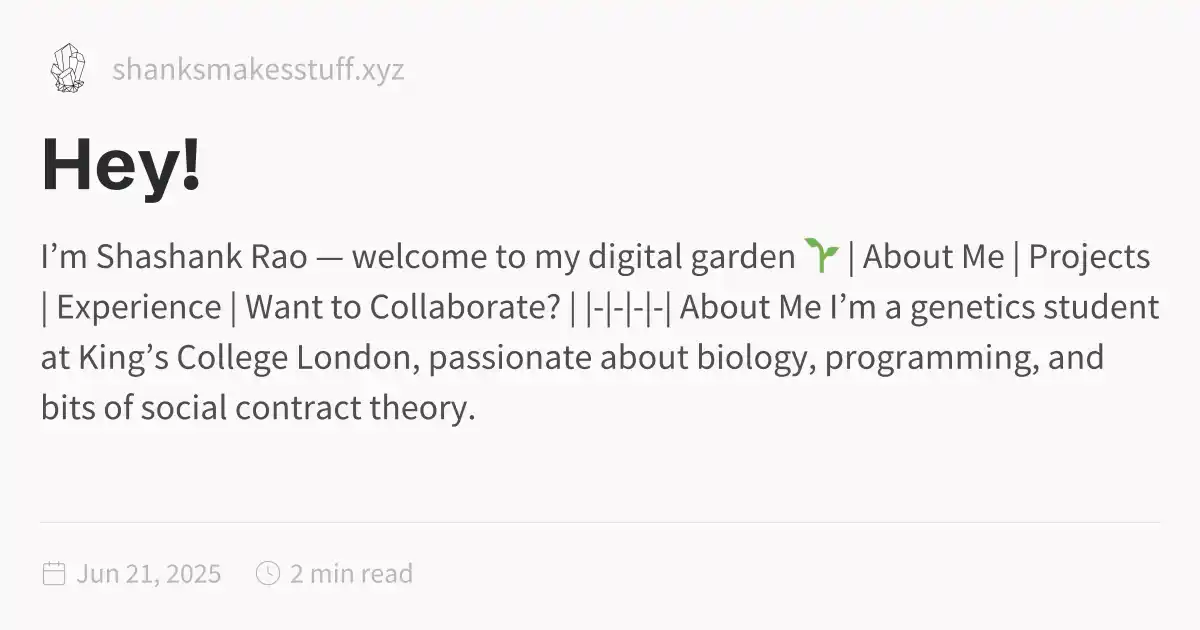
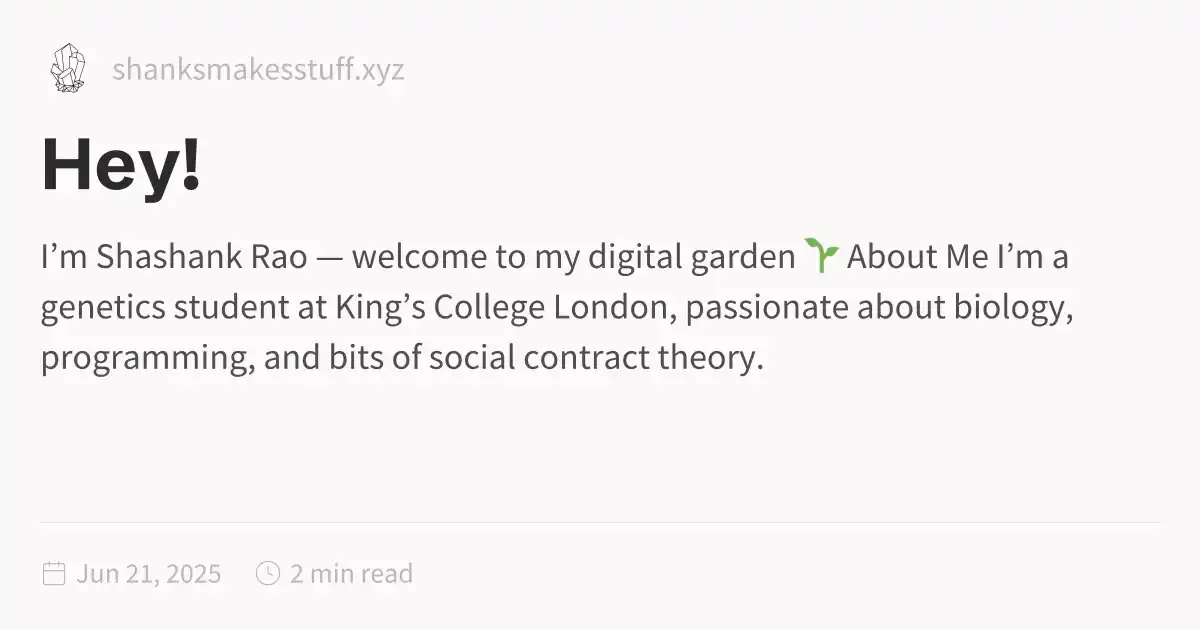
2025-06-21_1156

Changed region(s): [[0.0308, 0.3921, 0.9558, 0.5127], [0.0308, 0.5429, 0.925, 0.6032], [0.0308, 0.6333, 0.4008, 0.6635]]

diff --git a/Hey!.html b/Hey!.html
@@ -1,5 +1,5 @@
 <!DOCTYPE html>
-<html lang="en"><head><title>Hey!</title><meta charset="utf-8"/><link rel="preconnect" href="https://fonts.googleapis.com"/><link rel="preconnect" href="https://fonts.gstatic.com"/><link rel="stylesheet" href="https://fonts.googleapis.com/css2?family=Schibsted Grotesk:wght@400;700&amp;family=Source Sans Pro:ital,wght@0,400;0,600;1,400;1,600&amp;family=IBM Plex Mono:wght@400;600&amp;display=swap"/><link rel="preconnect" href="https://cdnjs.cloudflare.com" crossorigin="anonymous"/><meta name="viewport" content="width=device-width, initial-scale=1.0"/><meta name="og:site_name" content="ShanksMakesStuff"/><meta property="og:title" content="Hey!"/><meta property="og:type" content="website"/><meta name="twitter:card" content="summary_large_image"/><meta name="twitter:title" content="Hey!"/><meta name="twitter:description" content="I’m Shashank Rao — welcome to my digital garden 🌱 | About Me | Projects | Experience | Want to Collaborate? | |-|-|-|-| About Me I’m a genetics student at King’s College London, passionate about biology, programming, and bits of social contract theory."/><meta property="og:description" content="I’m Shashank Rao — welcome to my digital garden 🌱 | About Me | Projects | Experience | Want to Collaborate? | |-|-|-|-| About Me I’m a genetics student at King’s College London, passionate about biology, programming, and bits of social contract theory."/><meta property="og:image:alt" content="I’m Shashank Rao — welcome to my digital garden 🌱 | About Me | Projects | Experience | Want to Collaborate? | |-|-|-|-| About Me I’m a genetics student at King’s College London, passionate about biology, programming, and bits of social contract theory."/><meta property="twitter:domain" content="shanksmakesstuff.xyz"/><meta property="og:url" content="https://shanksmakesstuff.xyz/Hey!"/><meta property="twitter:url" content="https://shanksmakesstuff.xyz/Hey!"/><link rel="icon" href="./static/icon.png"/><meta name="description" content="I’m Shashank Rao — welcome to my digital garden 🌱 | About Me | Projects | Experience | Want to Collaborate? | |-|-|-|-| About Me I’m a genetics student at King’s College London, passionate about biology, programming, and bits of social contract theory."/><meta name="generator" content="Quartz"/><link href="./index.css" rel="stylesheet" type="text/css" spa-preserve/><style>.expand-button {
+<html lang="en"><head><title>Hey!</title><meta charset="utf-8"/><link rel="preconnect" href="https://fonts.googleapis.com"/><link rel="preconnect" href="https://fonts.gstatic.com"/><link rel="stylesheet" href="https://fonts.googleapis.com/css2?family=Schibsted Grotesk:wght@400;700&amp;family=Source Sans Pro:ital,wght@0,400;0,600;1,400;1,600&amp;family=IBM Plex Mono:wght@400;600&amp;display=swap"/><link rel="preconnect" href="https://cdnjs.cloudflare.com" crossorigin="anonymous"/><meta name="viewport" content="width=device-width, initial-scale=1.0"/><meta name="og:site_name" content="ShanksMakesStuff"/><meta property="og:title" content="Hey!"/><meta property="og:type" content="website"/><meta name="twitter:card" content="summary_large_image"/><meta name="twitter:title" content="Hey!"/><meta name="twitter:description" content="I’m Shashank Rao — welcome to my digital garden 🌱 About Me I’m a genetics student at King’s College London, passionate about biology, programming, and bits of social contract theory."/><meta property="og:description" content="I’m Shashank Rao — welcome to my digital garden 🌱 About Me I’m a genetics student at King’s College London, passionate about biology, programming, and bits of social contract theory."/><meta property="og:image:alt" content="I’m Shashank Rao — welcome to my digital garden 🌱 About Me I’m a genetics student at King’s College London, passionate about biology, programming, and bits of social contract theory."/><meta property="twitter:domain" content="shanksmakesstuff.xyz"/><meta property="og:url" content="https://shanksmakesstuff.xyz/Hey!"/><meta property="twitter:url" content="https://shanksmakesstuff.xyz/Hey!"/><link rel="icon" href="./static/icon.png"/><meta name="description" content="I’m Shashank Rao — welcome to my digital garden 🌱 About Me I’m a genetics student at King’s College London, passionate about biology, programming, and bits of social contract theory."/><meta name="generator" content="Quartz"/><link href="./index.css" rel="stylesheet" type="text/css" spa-preserve/><style>.expand-button {
   position: absolute;
   display: flex;
   float: right;
@@ -116,14 +116,33 @@ pre:hover > .expand-button {
   padding: 0 12px;
   font-size: 14px;
 }
[1 lines of base64/hex data omitted]
-<hr/>
-<p>| <a href="#about-me" class="internal alias">About Me</a> | <a href="#projects" class="internal alias">Projects</a> | <a href="#experience" class="internal alias">Experience</a> | <a href="#want-to-collaborate" class="internal alias">Want to Collaborate?</a> |
-|-|-|-|-|</p>
[1 lines of base64/hex data omitted]
 <h2 id="about-me">About Me<a role="anchor" aria-hidden="true" tabindex="-1" data-no-popover="true" href="#about-me" class="internal"><svg width="18" height="18" viewBox="0 0 24 24" fill="none" stroke="currentColor" stroke-width="2" stroke-linecap="round" stroke-linejoin="round"><path d="M10 13a5 5 0 0 0 7.54.54l3-3a5 5 0 0 0-7.07-7.07l-1.72 1.71"></path><path d="M14 11a5 5 0 0 0-7.54-.54l-3 3a5 5 0 0 0 7.07 7.07l1.71-1.71"></path></svg></a></h2>
 <p>I’m a genetics student at <a href="https://www.kcl.ac.uk/" class="external">King’s College London<svg aria-hidden="true" class="external-icon" style="max-width:0.8em;max-height:0.8em;" viewBox="0 0 512 512"><path d="M320 0H288V64h32 82.7L201.4 265.4 178.7 288 224 333.3l22.6-22.6L448 109.3V192v32h64V192 32 0H480 320zM32 32H0V64 480v32H32 456h32V480 352 320H424v32 96H64V96h96 32V32H160 32z"></path></svg></a>, passionate about biology, programming, and bits of social contract theory.<br/>
 I love combining disciplines, whether it’s using code to explore genetics or using philosophy to understand society.</p>
 <p>Outside the lab and code editor, I play the guitar, write fantasy stories, and occasionally attempt to draw things that don’t look awful. I hope you enjoy exploring my projects, thoughts, and half-grown ideas!</p>
+<h2 id="experience">Experience<a role="anchor" aria-hidden="true" tabindex="-1" data-no-popover="true" href="#experience" class="internal"><svg width="18" height="18" viewBox="0 0 24 24" fill="none" stroke="currentColor" stroke-width="2" stroke-linecap="round" stroke-linejoin="round"><path d="M10 13a5 5 0 0 0 7.54.54l3-3a5 5 0 0 0-7.07-7.07l-1.72 1.71"></path><path d="M14 11a5 5 0 0 0-7.54-.54l-3 3a5 5 0 0 0 7.07 7.07l1.71-1.71"></path></svg></a></h2>
+<ul>
+<li>
+<h3 id="-british-society-for-research-on-ageing--university-of-exeter-ongoing">🧬 British Society for Research on Ageing + University of Exeter (ongoing)<a role="anchor" aria-hidden="true" tabindex="-1" data-no-popover="true" href="#-british-society-for-research-on-ageing--university-of-exeter-ongoing" class="internal"><svg width="18" height="18" viewBox="0 0 24 24" fill="none" stroke="currentColor" stroke-width="2" stroke-linecap="round" stroke-linejoin="round"><path d="M10 13a5 5 0 0 0 7.54.54l3-3a5 5 0 0 0-7.07-7.07l-1.72 1.71"></path><path d="M14 11a5 5 0 0 0-7.54-.54l-3 3a5 5 0 0 0 7.07 7.07l1.71-1.71"></path></svg></a></h3>
+<ul>
+<li>Current member and grant awardee for the 2025 Summer Studentship Grant</li>
+<li>Researching the effects of menopuasal symptoms on postmenopausal health with Mendelian Randomisation at the University of Exeter</li>
+</ul>
+</li>
+<li>
+<h3 id="-reproductive-genomics-team-university-of-exeter-6-weeks">🧫 Reproductive Genomics Team, University of Exeter (6 weeks)<a role="anchor" aria-hidden="true" tabindex="-1" data-no-popover="true" href="#-reproductive-genomics-team-university-of-exeter-6-weeks" class="internal"><svg width="18" height="18" viewBox="0 0 24 24" fill="none" stroke="currentColor" stroke-width="2" stroke-linecap="round" stroke-linejoin="round"><path d="M10 13a5 5 0 0 0 7.54.54l3-3a5 5 0 0 0-7.07-7.07l-1.72 1.71"></path><path d="M14 11a5 5 0 0 0-7.54-.54l-3 3a5 5 0 0 0 7.07 7.07l1.71-1.71"></path></svg></a></h3>
+<ul>
+<li>Summer intern in a GWAS-focused lab, working on bioinformatics tools and variant data visualisation.</li>
+</ul>
+</li>
+<li>
+<h3 id="-rudgwick-medical-centre-2-months">🧠 Rudgwick Medical Centre (2 months)<a role="anchor" aria-hidden="true" tabindex="-1" data-no-popover="true" href="#-rudgwick-medical-centre-2-months" class="internal"><svg width="18" height="18" viewBox="0 0 24 24" fill="none" stroke="currentColor" stroke-width="2" stroke-linecap="round" stroke-linejoin="round"><path d="M10 13a5 5 0 0 0 7.54.54l3-3a5 5 0 0 0-7.07-7.07l-1.72 1.71"></path><path d="M14 11a5 5 0 0 0-7.54-.54l-3 3a5 5 0 0 0 7.07 7.07l1.71-1.71"></path></svg></a></h3>
+<ul>
+<li>Internship in speech recognition + AI transcription models in healthcare contexts.</li>
+</ul>
+</li>
+</ul>
 <h2 id="projects">Projects<a role="anchor" aria-hidden="true" tabindex="-1" data-no-popover="true" href="#projects" class="internal"><svg width="18" height="18" viewBox="0 0 24 24" fill="none" stroke="currentColor" stroke-width="2" stroke-linecap="round" stroke-linejoin="round"><path d="M10 13a5 5 0 0 0 7.54.54l3-3a5 5 0 0 0-7.07-7.07l-1.72 1.71"></path><path d="M14 11a5 5 0 0 0-7.54-.54l-3 3a5 5 0 0 0 7.07 7.07l1.71-1.71"></path></svg></a></h2>
 <ul>
 <li>
@@ -173,31 +192,9 @@ I love combining disciplines, whether it’s using code to explore genetics or u
 </ul>
 </li>
 </ul>
-<h2 id="experience">Experience<a role="anchor" aria-hidden="true" tabindex="-1" data-no-popover="true" href="#experience" class="internal"><svg width="18" height="18" viewBox="0 0 24 24" fill="none" stroke="currentColor" stroke-width="2" stroke-linecap="round" stroke-linejoin="round"><path d="M10 13a5 5 0 0 0 7.54.54l3-3a5 5 0 0 0-7.07-7.07l-1.72 1.71"></path><path d="M14 11a5 5 0 0 0-7.54-.54l-3 3a5 5 0 0 0 7.07 7.07l1.71-1.71"></path></svg></a></h2>
-<ul>
-<li>
-<h3 id="-british-society-for-research-on-ageing--university-of-exeter-ongoing">🧬 British Society for Research on Ageing + University of Exeter (ongoing)<a role="anchor" aria-hidden="true" tabindex="-1" data-no-popover="true" href="#-british-society-for-research-on-ageing--university-of-exeter-ongoing" class="internal"><svg width="18" height="18" viewBox="0 0 24 24" fill="none" stroke="currentColor" stroke-width="2" stroke-linecap="round" stroke-linejoin="round"><path d="M10 13a5 5 0 0 0 7.54.54l3-3a5 5 0 0 0-7.07-7.07l-1.72 1.71"></path><path d="M14 11a5 5 0 0 0-7.54-.54l-3 3a5 5 0 0 0 7.07 7.07l1.71-1.71"></path></svg></a></h3>
-<ul>
-<li>Current member and grant awardee for the 2025 Summer Studentship Grant</li>
-<li>Researching the effects of menopuasal symptoms on postmenopausal health with Mendelian Randomisation at the University of Exeter</li>
-</ul>
-</li>
-<li>
-<h3 id="-reproductive-genomics-team-university-of-exeter-6-weeks">🧫 Reproductive Genomics Team, University of Exeter (6 weeks)<a role="anchor" aria-hidden="true" tabindex="-1" data-no-popover="true" href="#-reproductive-genomics-team-university-of-exeter-6-weeks" class="internal"><svg width="18" height="18" viewBox="0 0 24 24" fill="none" stroke="currentColor" stroke-width="2" stroke-linecap="round" stroke-linejoin="round"><path d="M10 13a5 5 0 0 0 7.54.54l3-3a5 5 0 0 0-7.07-7.07l-1.72 1.71"></path><path d="M14 11a5 5 0 0 0-7.54-.54l-3 3a5 5 0 0 0 7.07 7.07l1.71-1.71"></path></svg></a></h3>
-<ul>
-<li>Summer intern in a GWAS-focused lab, working on bioinformatics tools and variant data visualisation.</li>
-</ul>
-</li>
-<li>
-<h3 id="-rudgwick-medical-centre">🧠 Rudgwick Medical Centre<a role="anchor" aria-hidden="true" tabindex="-1" data-no-popover="true" href="#-rudgwick-medical-centre" class="internal"><svg width="18" height="18" viewBox="0 0 24 24" fill="none" stroke="currentColor" stroke-width="2" stroke-linecap="round" stroke-linejoin="round"><path d="M10 13a5 5 0 0 0 7.54.54l3-3a5 5 0 0 0-7.07-7.07l-1.72 1.71"></path><path d="M14 11a5 5 0 0 0-7.54-.54l-3 3a5 5 0 0 0 7.07 7.07l1.71-1.71"></path></svg></a></h3>
-<ul>
-<li>Internship in speech recognition + AI transcription models in healthcare contexts.</li>
-</ul>
-</li>
-</ul>
 <hr/>
 <h2 id="want-to-collaborate">Want to Collaborate?<a role="anchor" aria-hidden="true" tabindex="-1" data-no-popover="true" href="#want-to-collaborate" class="internal"><svg width="18" height="18" viewBox="0 0 24 24" fill="none" stroke="currentColor" stroke-width="2" stroke-linecap="round" stroke-linejoin="round"><path d="M10 13a5 5 0 0 0 7.54.54l3-3a5 5 0 0 0-7.07-7.07l-1.72 1.71"></path><path d="M14 11a5 5 0 0 0-7.54-.54l-3 3a5 5 0 0 0 7.07 7.07l1.71-1.71"></path></svg></a></h2>
 <p>If you’re into weird interdisciplinary ideas, or just want to say hi, <a href="mailto:shashank.jrao@outlook.com" class="external">get in touch<svg aria-hidden="true" class="external-icon" style="max-width:0.8em;max-height:0.8em;" viewBox="0 0 512 512"><path d="M320 0H288V64h32 82.7L201.4 265.4 178.7 288 224 333.3l22.6-22.6L448 109.3V192v32h64V192 32 0H480 320zM32 32H0V64 480v32H32 456h32V480 352 320H424v32 96H64V96h96 32V32H160 32z"></path></svg></a> — or check out <a href="https://github.com/ShashankRaoCoding" class="external">my GitHub<svg aria-hidden="true" class="external-icon" style="max-width:0.8em;max-height:0.8em;" viewBox="0 0 512 512"><path d="M320 0H288V64h32 82.7L201.4 265.4 178.7 288 224 333.3l22.6-22.6L448 109.3V192v32h64V192 32 0H480 320zM32 32H0V64 480v32H32 456h32V480 352 320H424v32 96H64V96h96 32V32H160 32z"></path></svg></a>!</p>
-<hr/></article><hr/><div class="page-footer"></div></div><div class="right sidebar"><div class="toc"><button type="button" class="toc-header" aria-controls="toc-content" aria-expanded="true"><h3>Table of Contents</h3><svg xmlns="http://www.w3.org/2000/svg" width="24" height="24" viewBox="0 0 24 24" fill="none" stroke="currentColor" stroke-width="2" stroke-linecap="round" stroke-linejoin="round" class="fold"><polyline points="6 9 12 15 18 9"></polyline></svg></button><ul class="toc-content overflow" id="list-1"><li class="depth-0"><a href="#about-me" data-for="about-me">About Me</a></li><li class="depth-0"><a href="#projects" data-for="projects">Projects</a></li><li class="depth-1"><a href="#gwasexplorercom" data-for="gwasexplorercom">GWASExplorer.com</a></li><li class="depth-1"><a href="#think-pythonically" data-for="think-pythonically">Think Pythonically</a></li><li class="depth-1"><a href="#ideate2d" data-for="ideate2d">Ideate2D</a></li><li class="depth-1"><a href="#into-the-mind" data-for="into-the-mind">Into the Mind</a></li><li class="depth-0"><a href="#experience" data-for="experience">Experience</a></li><li class="depth-1"><a href="#-british-society-for-research-on-ageing--university-of-exeter-ongoing" data-for="-british-society-for-research-on-ageing--university-of-exeter-ongoing">🧬 British Society for Research on Ageing + University of Exeter (ongoing)</a></li><li class="depth-1"><a href="#-reproductive-genomics-team-university-of-exeter-6-weeks" data-for="-reproductive-genomics-team-university-of-exeter-6-weeks">🧫 Reproductive Genomics Team, University of Exeter (6 weeks)</a></li><li class="depth-1"><a href="#-rudgwick-medical-centre" data-for="-rudgwick-medical-centre">🧠 Rudgwick Medical Centre</a></li><li class="depth-0"><a href="#want-to-collaborate" data-for="want-to-collaborate">Want to Collaborate?</a></li><li class="overflow-end"></li></ul></div></div><footer class><p>Created with <a href="https://quartz.jzhao.xyz/">Quartz v4.5.1</a> © 2025</p><ul><li><a href="https://github.com/jackyzha0/quartz">GitHub</a></li><li><a href="https://discord.gg/cRFFHYye7t">Discord Community</a></li></ul></footer></div></div></body><script type="application/javascript">function n(){let t=this.parentElement;t.classList.toggle("is-collapsed");let e=t.getElementsByClassName("callout-content")[0];if(!e)return;let l=t.classList.contains("is-collapsed");e.style.gridTemplateRows=l?"0fr":"1fr"}function c(){let t=document.getElementsByClassName("callout is-collapsible");for(let e of t){let l=e.getElementsByClassName("callout-title")[0],s=e.getElementsByClassName("callout-content")[0];if(!l||!s)continue;l.addEventListener("click",n),window.addCleanup(()=>l.removeEventListener("click",n));let o=e.classList.contains("is-collapsed");s.style.gridTemplateRows=o?"0fr":"1fr"}}document.addEventListener("nav",c);
+<hr/></article><hr/><div class="page-footer"></div></div><div class="right sidebar"><div class="toc"><button type="button" class="toc-header" aria-controls="toc-content" aria-expanded="true"><h3>Table of Contents</h3><svg xmlns="http://www.w3.org/2000/svg" width="24" height="24" viewBox="0 0 24 24" fill="none" stroke="currentColor" stroke-width="2" stroke-linecap="round" stroke-linejoin="round" class="fold"><polyline points="6 9 12 15 18 9"></polyline></svg></button><ul class="toc-content overflow" id="list-1"><li class="depth-0"><a href="#about-me" data-for="about-me">About Me</a></li><li class="depth-0"><a href="#experience" data-for="experience">Experience</a></li><li class="depth-1"><a href="#-british-society-for-research-on-ageing--university-of-exeter-ongoing" data-for="-british-society-for-research-on-ageing--university-of-exeter-ongoing">🧬 British Society for Research on Ageing + University of Exeter (ongoing)</a></li><li class="depth-1"><a href="#-reproductive-genomics-team-university-of-exeter-6-weeks" data-for="-reproductive-genomics-team-university-of-exeter-6-weeks">🧫 Reproductive Genomics Team, University of Exeter (6 weeks)</a></li><li class="depth-1"><a href="#-rudgwick-medical-centre-2-months" data-for="-rudgwick-medical-centre-2-months">🧠 Rudgwick Medical Centre (2 months)</a></li><li class="depth-0"><a href="#projects" data-for="projects">Projects</a></li><li class="depth-1"><a href="#gwasexplorercom" data-for="gwasexplorercom">GWASExplorer.com</a></li><li class="depth-1"><a href="#think-pythonically" data-for="think-pythonically">Think Pythonically</a></li><li class="depth-1"><a href="#ideate2d" data-for="ideate2d">Ideate2D</a></li><li class="depth-1"><a href="#into-the-mind" data-for="into-the-mind">Into the Mind</a></li><li class="depth-0"><a href="#want-to-collaborate" data-for="want-to-collaborate">Want to Collaborate?</a></li><li class="overflow-end"></li></ul></div></div><footer class><p>Created with <a href="https://quartz.jzhao.xyz/">Quartz v4.5.1</a> © 2025</p><ul><li><a href="https://github.com/jackyzha0/quartz">GitHub</a></li><li><a href="https://discord.gg/cRFFHYye7t">Discord Community</a></li></ul></footer></div></div></body><script type="application/javascript">function n(){let t=this.parentElement;t.classList.toggle("is-collapsed");let e=t.getElementsByClassName("callout-content")[0];if(!e)return;let l=t.classList.contains("is-collapsed");e.style.gridTemplateRows=l?"0fr":"1fr"}function c(){let t=document.getElementsByClassName("callout is-collapsible");for(let e of t){let l=e.getElementsByClassName("callout-title")[0],s=e.getElementsByClassName("callout-content")[0];if(!l||!s)continue;l.addEventListener("click",n),window.addCleanup(()=>l.removeEventListener("click",n));let o=e.classList.contains("is-collapsed");s.style.gridTemplateRows=o?"0fr":"1fr"}}document.addEventListener("nav",c);
 </script><script type="module">function f(i,e){if(!i)return;function r(o){o.target===this&&(o.preventDefault(),o.stopPropagation(),e())}function t(o){o.key.startsWith("Esc")&&(o.preventDefault(),e())}i?.addEventListener("click",r),window.addCleanup(()=>i?.removeEventListener("click",r)),document.addEventListener("keydown",t),window.addCleanup(()=>document.removeEventListener("keydown",t))}function y(i){for(;i.firstChild;)i.removeChild(i.firstChild)}var h=class{constructor(e,r){this.container=e;this.content=r;this.setupEventListeners(),this.setupNavigationControls(),this.resetTransform()}isDragging=!1;startPan={x:0,y:0};currentPan={x:0,y:0};scale=1;MIN_SCALE=.5;MAX_SCALE=3;cleanups=[];setupEventListeners(){let e=this.onMouseDown.bind(this),r=this.onMouseMove.bind(this),t=this.onMouseUp.bind(this),o=this.resetTransform.bind(this);this.container.addEventListener("mousedown",e),document.addEventListener("mousemove",r),document.addEventListener("mouseup",t),window.addEventListener("resize",o),this.cleanups.push(()=>this.container.removeEventListener("mousedown",e),()=>document.removeEventListener("mousemove",r),()=>document.removeEventListener("mouseup",t),()=>window.removeEventListener("resize",o))}cleanup(){for(let e of this.cleanups)e()}setupNavigationControls(){let e=document.createElement("div");e.className="mermaid-controls";let r=this.createButton("+",()=>this.zoom(.1)),t=this.createButton("-",()=>this.zoom(-.1)),o=this.createButton("Reset",()=>this.resetTransform());e.appendChild(t),e.appendChild(o),e.appendChild(r),this.container.appendChild(e)}createButton(e,r){let t=document.createElement("button");return t.textContent=e,t.className="mermaid-control-button",t.addEventListener("click",r),window.addCleanup(()=>t.removeEventListener("click",r)),t}onMouseDown(e){e.button===0&&(this.isDragging=!0,this.startPan={x:e.clientX-this.currentPan.x,y:e.clientY-this.currentPan.y},this.container.style.cursor="grabbing")}onMouseMove(e){this.isDragging&&(e.preventDefault(),this.currentPan={x:e.clientX-this.startPan.x,y:e.clientY-this.startPan.y},this.updateTransform())}onMouseUp(){this.isDragging=!1,this.container.style.cursor="grab"}zoom(e){let r=Math.min(Math.max(this.scale+e,this.MIN_SCALE),this.MAX_SCALE),t=this.content.getBoundingClientRect(),o=t.width/2,n=t.height/2,c=r-this.scale;this.currentPan.x-=o*c,this.currentPan.y-=n*c,this.scale=r,this.updateTransform()}updateTransform(){this.content.style.transform=`translate(${this.currentPan.x}px, ${this.currentPan.y}px) scale(${this.scale})`}resetTransform(){this.scale=1;let e=this.content.querySelector("svg");this.currentPan={x:e.getBoundingClientRect().width/2,y:e.getBoundingClientRect().height/2},this.updateTransform()}},C=["--secondary","--tertiary","--gray","--light","--lightgray","--highlight","--dark","--darkgray","--codeFont"],E;document.addEventListener("nav",async()=>{let e=document.querySelector(".center").querySelectorAll("code.mermaid");if(e.length===0)return;E||=await import("https://cdnjs.cloudflare.com/ajax/libs/mermaid/11.4.0/mermaid.esm.min.mjs");let r=E.default,t=new WeakMap;for(let n of e)t.set(n,n.innerText);async function o(){for(let s of e){s.removeAttribute("data-processed");let a=t.get(s);a&&(s.innerHTML=a)}let n=C.reduce((s,a)=>(s[a]=window.getComputedStyle(document.documentElement).getPropertyValue(a),s),{}),c=document.documentElement.getAttribute("saved-theme")==="dark";r.initialize({startOnLoad:!1,securityLevel:"loose",theme:c?"dark":"base",themeVariables:{fontFamily:n["--codeFont"],primaryColor:n["--light"],primaryTextColor:n["--darkgray"],primaryBorderColor:n["--tertiary"],lineColor:n["--darkgray"],secondaryColor:n["--secondary"],tertiaryColor:n["--tertiary"],clusterBkg:n["--light"],edgeLabelBackground:n["--highlight"]}}),await r.run({nodes:e})}await o(),document.addEventListener("themechange",o),window.addCleanup(()=>document.removeEventListener("themechange",o));for(let n=0;n<e.length;n++){let v=function(){let g=l.querySelector("#mermaid-space"),m=l.querySelector(".mermaid-content");if(!m)return;y(m);let w=c.querySelector("svg").cloneNode(!0);m.appendChild(w),l.classList.add("active"),g.style.cursor="grab",u=new h(g,m)},M=function(){l.classList.remove("active"),u?.cleanup(),u=null},c=e[n],s=c.parentElement,a=s.querySelector(".clipboard-button"),d=s.querySelector(".expand-button"),p=window.getComputedStyle(a),L=a.offsetWidth+parseFloat(p.marginLeft||"0")+parseFloat(p.marginRight||"0");d.style.right=`calc(${L}px + 0.3rem)`,s.prepend(d);let l=s.querySelector("#mermaid-container");if(!l)return;let u=null;d.addEventListener("click",v),f(l,M),window.addCleanup(()=>{u?.cleanup(),d.removeEventListener("click",v)})}});
 </script><script src="https://cdn.jsdelivr.net/npm/katex@0.16.11/dist/contrib/copy-tex.min.js" type="application/javascript"></script><script src="./postscript.js" type="module"></script></html>
